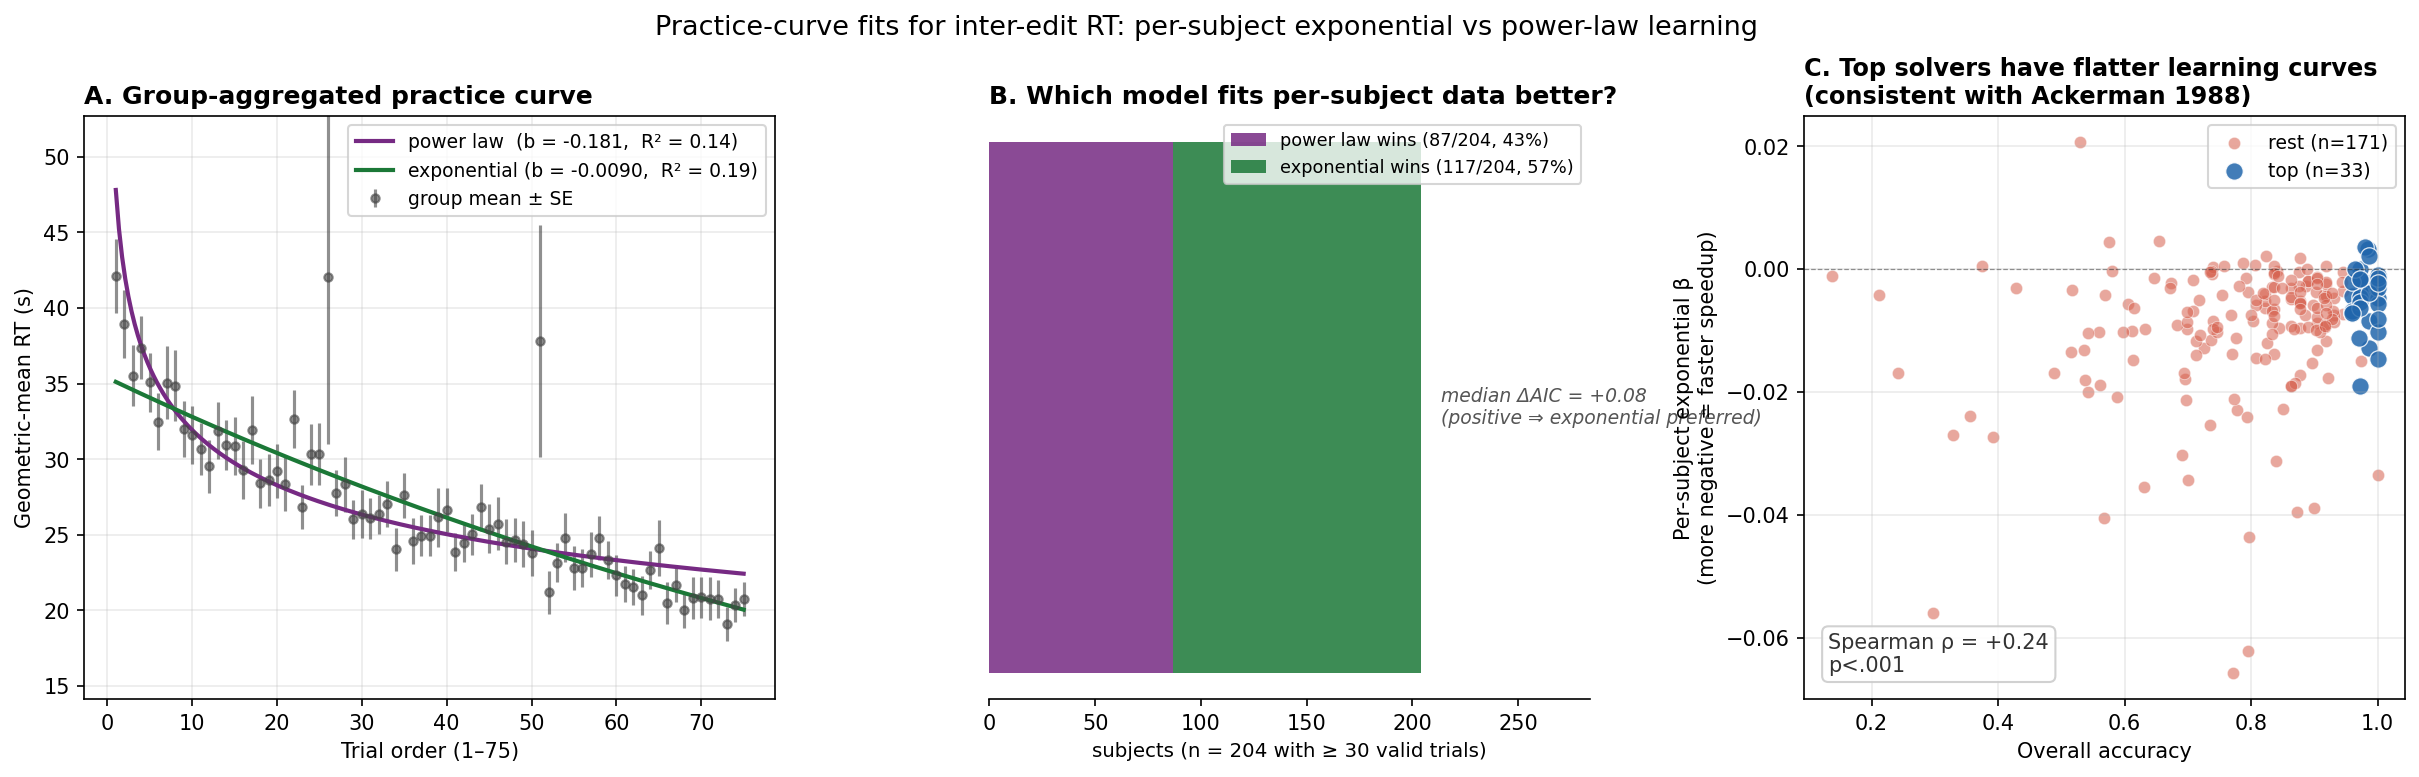
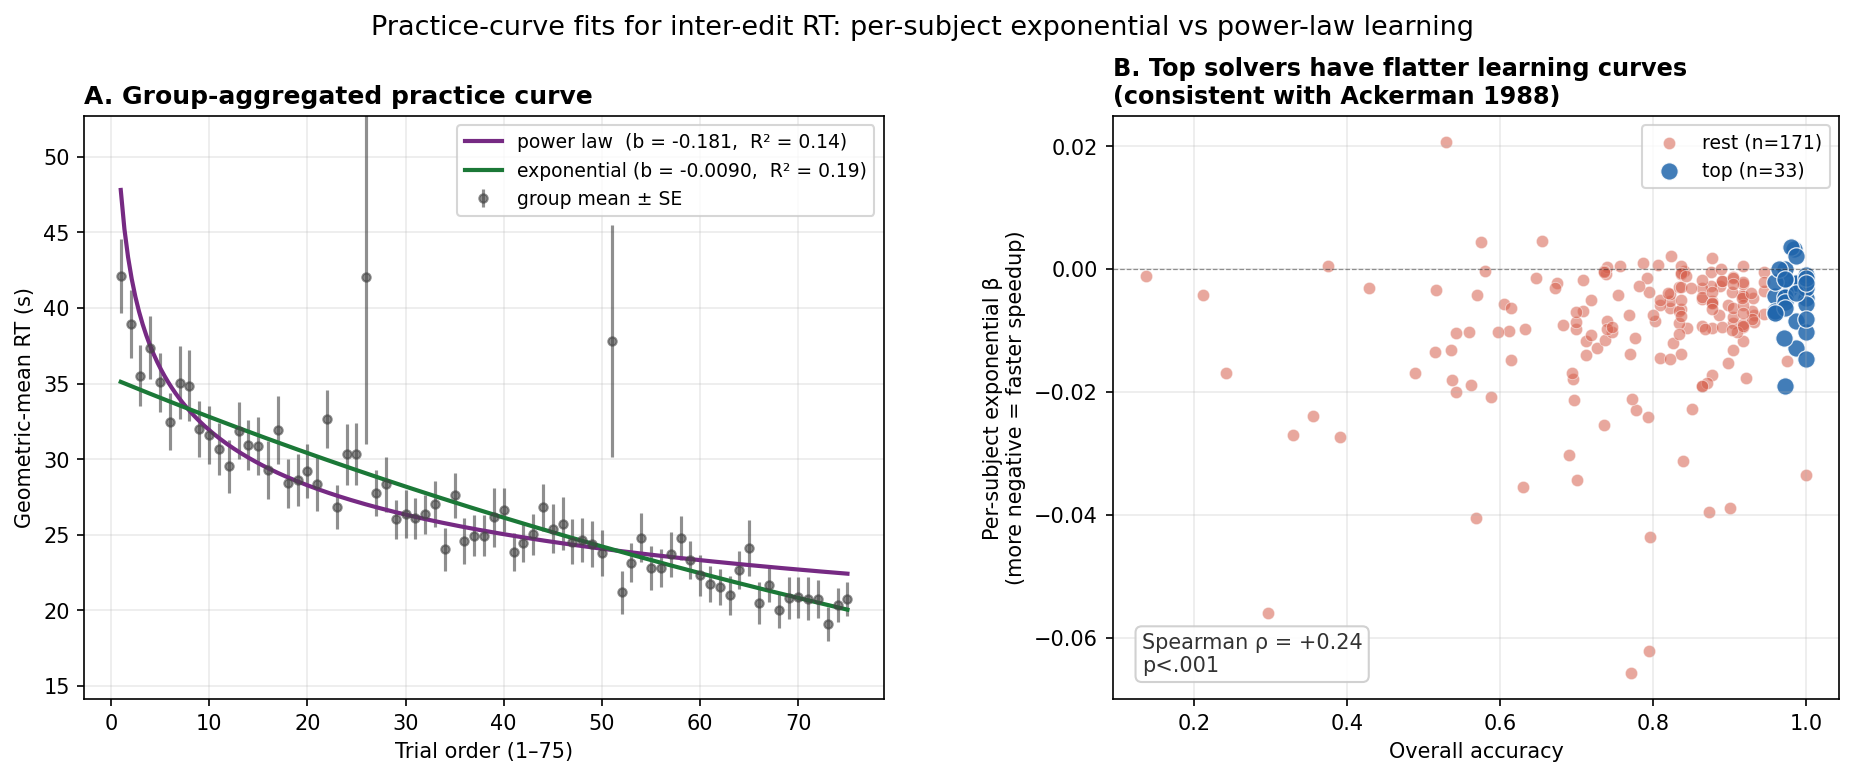
Practice-curve figure: drop Panel B (model-winner stacked bar)
The B/E split was visually redundant with the summary in the caption; the
2-panel layout reads more cleanly.

diff --git a/plot_practice_curves.py b/plot_practice_curves.py
@@ -80,9 +80,9 @@ def main():
         "count": g_per_order["count"],
     })
 
-    fig = plt.figure(figsize=(17, 5.4))
-    gs  = GridSpec(1, 3, figure=fig, width_ratios=[1.15, 1.0, 1.0],
-                   wspace=0.34, left=0.06, right=0.97, top=0.86, bottom=0.14)
+    fig = plt.figure(figsize=(13, 5.4))
+    gs  = GridSpec(1, 2, figure=fig, width_ratios=[1.1, 1.0],
+                   wspace=0.30, left=0.07, right=0.97, top=0.86, bottom=0.14)
 
     # ── Panel A: group mean RT + both fits ────────────────────────────────────
     axA = fig.add_subplot(gs[0, 0])
@@ -120,34 +120,8 @@ def main():
     axA.legend(fontsize=9, loc="upper right")
     axA.grid(alpha=0.25)
 
-    # ── Panel B: model winner stacked bar + per-subject exp β histogram ──────
-    axB = fig.add_subplot(gs[0, 1])
-
-    n_fit  = int(rt_win["n_subjects_fit"])
-    n_exp  = int(rt_win["n_exp_wins"])
-    n_pl   = int(rt_win["n_pl_wins"])
-    pct_exp = n_exp / n_fit
-
-    # Inset stacked-bar at top of panel
-    axB.barh([0], [n_pl],            height=0.4, color=COLOR_PL,
-             alpha=0.85, label=f"power law wins ({n_pl}/{n_fit}, {1-pct_exp:.0%})")
-    axB.barh([0], [n_exp], left=[n_pl], height=0.4, color=COLOR_EXP,
-             alpha=0.85, label=f"exponential wins ({n_exp}/{n_fit}, {pct_exp:.0%})")
-    axB.text(n_pl + n_exp + 4, 0,
-             f"  median ΔAIC = {rt_win['median_delta_aic_pl_minus_exp']:+.2f}\n"
-             f"  (positive ⇒ exponential preferred)",
-             va="center", ha="left", fontsize=9, color="#555555", style="italic")
-    axB.set_yticks([])
-    axB.set_xlim(0, n_fit + 80)
-    axB.set_xlabel(f"subjects (n = {n_fit} with ≥ 30 valid trials)", fontsize=9.5)
-    axB.set_title("B. Which model fits per-subject data better?",
-                  loc="left", fontsize=12, fontweight="bold")
-    axB.legend(fontsize=8.5, loc="upper right")
-    for spine in ("top", "right", "left"):
-        axB.spines[spine].set_visible(False)
-
-    # ── Panel C: per-subject exp β vs accuracy, coloured by top solver ────────
-    axC = fig.add_subplot(gs[0, 2])
+    # ── Panel B: per-subject exp β vs accuracy, coloured by top solver ────────
+    axC = fig.add_subplot(gs[0, 1])
     rest_mask = ~rt_sub["top_solver"].astype(bool)
     top_mask  =  rt_sub["top_solver"].astype(bool)
 
@@ -171,7 +145,7 @@ def main():
 
     axC.set_xlabel("Overall accuracy", fontsize=10)
     axC.set_ylabel("Per-subject exponential β\n(more negative = faster speedup)", fontsize=10)
-    axC.set_title("C. Top solvers have flatter learning curves\n(consistent with Ackerman 1988)",
+    axC.set_title("B. Top solvers have flatter learning curves\n(consistent with Ackerman 1988)",
                   loc="left", fontsize=11.5, fontweight="bold")
     axC.legend(fontsize=9, loc="upper right")
     axC.grid(alpha=0.25)
